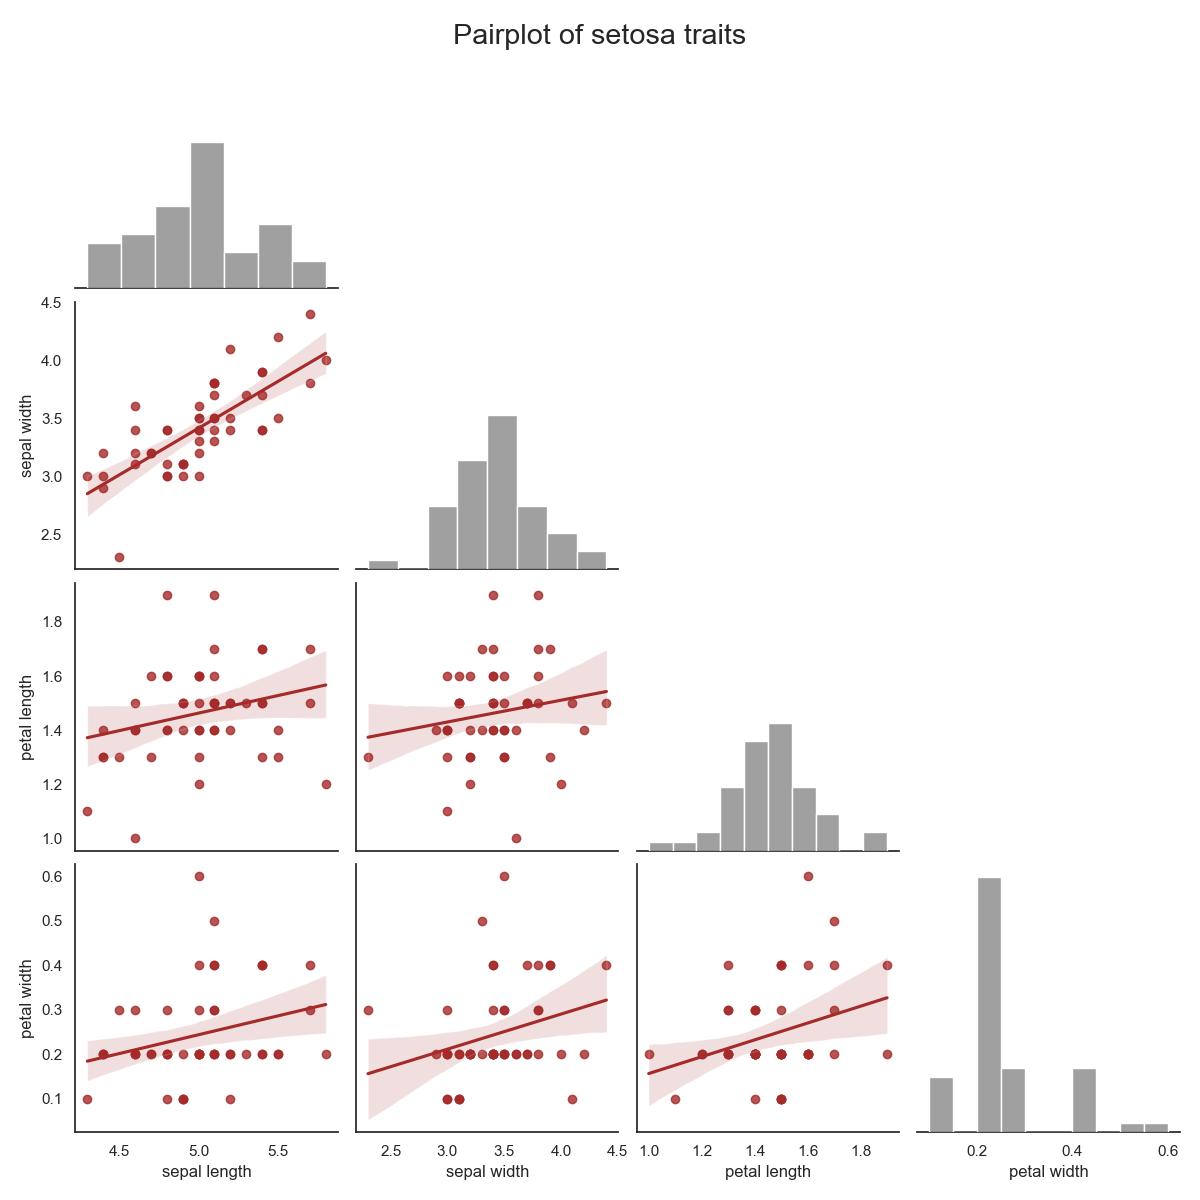
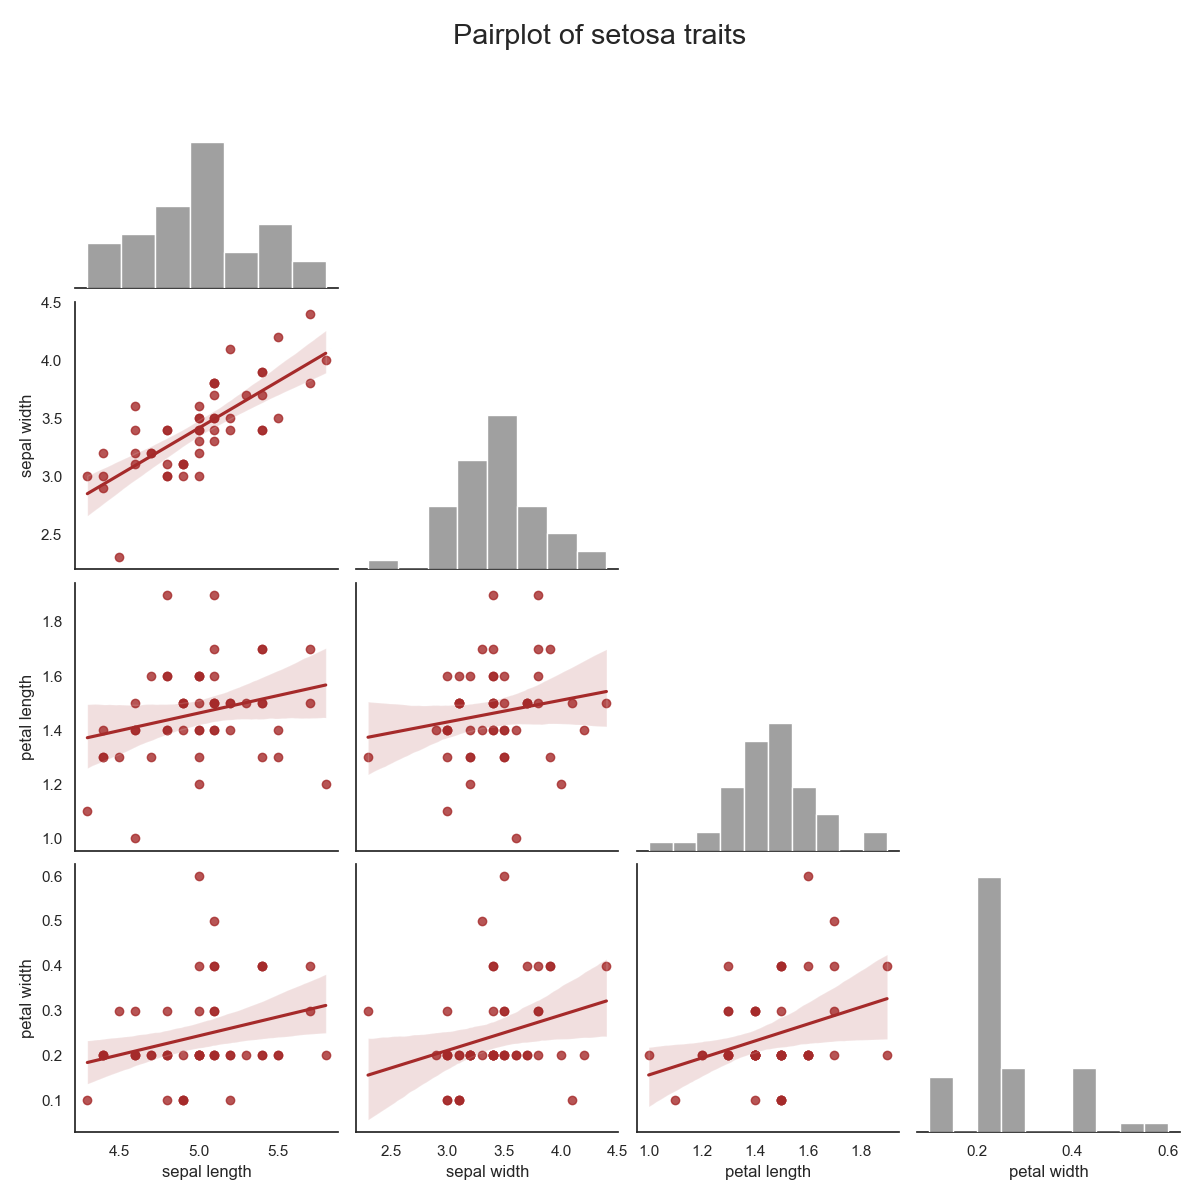
small changes to pairplot code

diff --git a/analysis.py b/analysis.py
@@ -120,19 +120,19 @@ sns.set(style="darkgrid")
 
 sepal_length = sns.displot(df, x ="sepal length", bins = 20, hue ="variety", palette = "Set1_r", multiple = "stack").set(title = "Sepal length for each Iris variety", xlabel = "Sepal length in cm")
 plt.tight_layout()
-plt.savefig('sepal_length_varieties.png')
+plt.savefig('sepal_length_hist.png')
 
 sepal_width = sns.displot(df, x ="sepal width", bins = 20, hue ="variety", palette = "Set1_r", multiple = "stack").set(title = "Sepal width for each Iris variety", xlabel = "Sepal width in cm")
 plt.tight_layout()
-plt.savefig('sepal_width_varieties.png')
+plt.savefig('sepal_width_hist.png')
 
 petal_length = sns.displot(df, x ="petal length", bins = 20, hue ="variety", palette = "Set1_r", multiple = "stack").set(title = "Petal length for each Iris variety", xlabel = "Petal length in cm")
 plt.tight_layout()
-plt.savefig('petal_length_varieties.png')
+plt.savefig('petal_length_hist.png')
 
 petal_width = sns.displot(df, x ="petal width", bins = 20, hue ="variety", palette = "Set1_r", multiple = "stack").set(title = "Petal width for each Iris variety", xlabel = "Petal width in cm")
 plt.tight_layout()
-plt.savefig('petal_width_varieties.png')
+plt.savefig('petal_width_hist.png')
 
 
 # This section of my script relates to scatterplots. To capture the 6 different trait-pair combinations, I have used pairplots.
@@ -148,8 +148,9 @@ plt.savefig('petal_width_varieties.png')
 
 sns.set(style = "white")
 
-iris_pairplot = sns.pairplot(df, hue = "variety", palette="Dark2", height=2.5, aspect=1.3, corner=True, kind="reg")
+iris_pairplot = sns.pairplot(df, hue = "variety", palette="Dark2", height=3, aspect=1, corner=True, kind="reg")
 iris_pairplot.fig.suptitle("Pairplot of traits for full Iris sample", fontsize = "xx-large")
+plt.tight_layout()
 plt.savefig('iris_pairplot.png')
 
 
